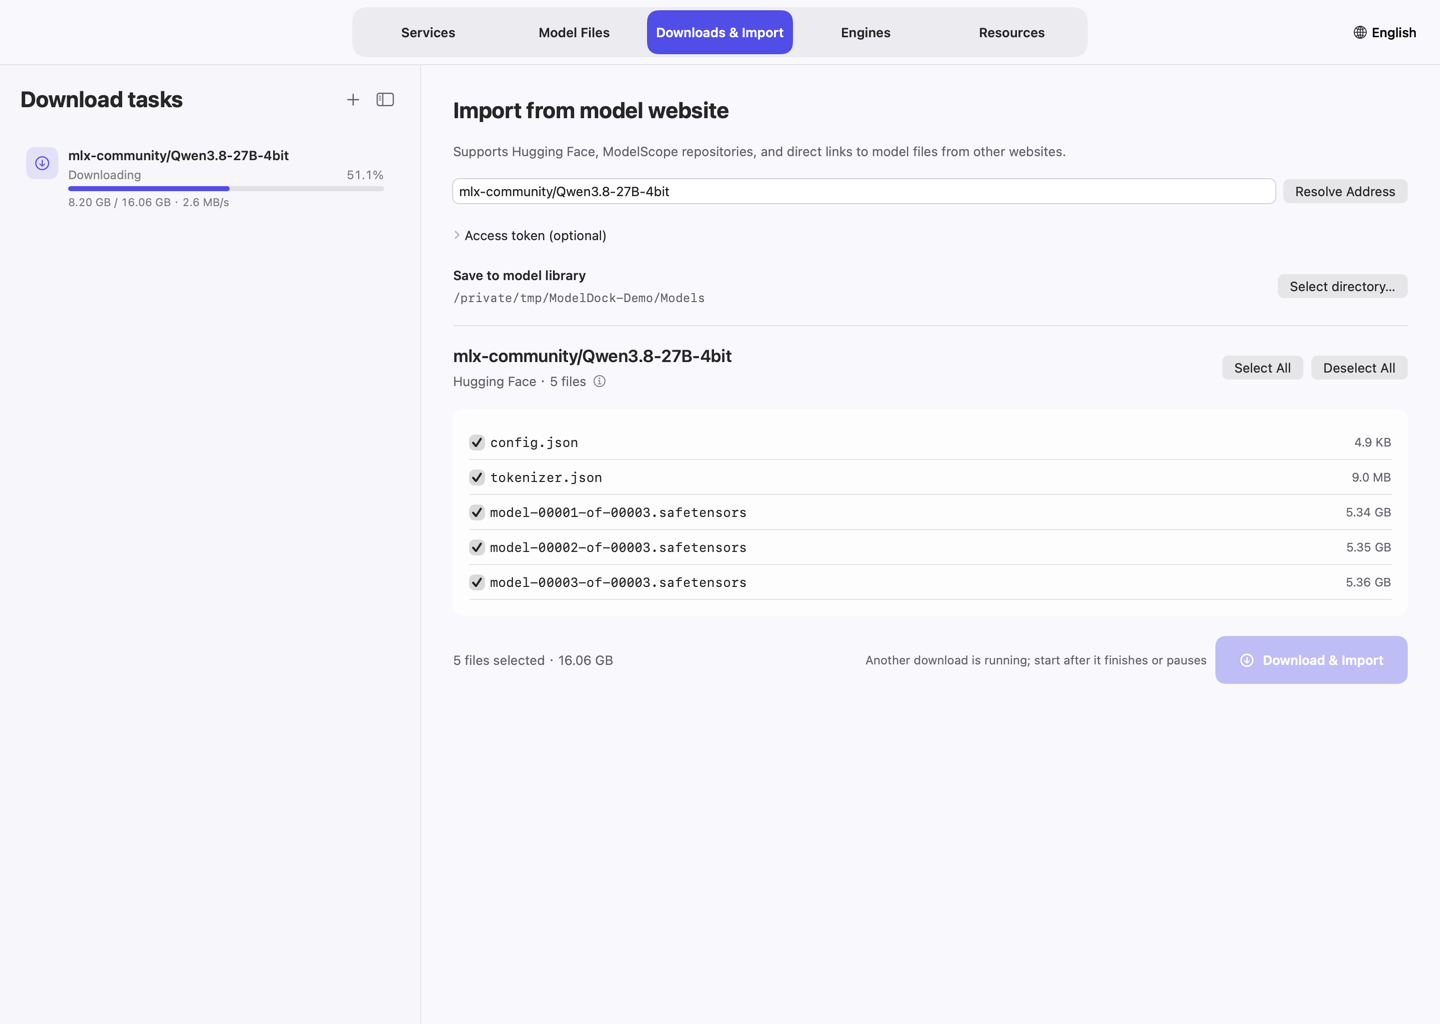
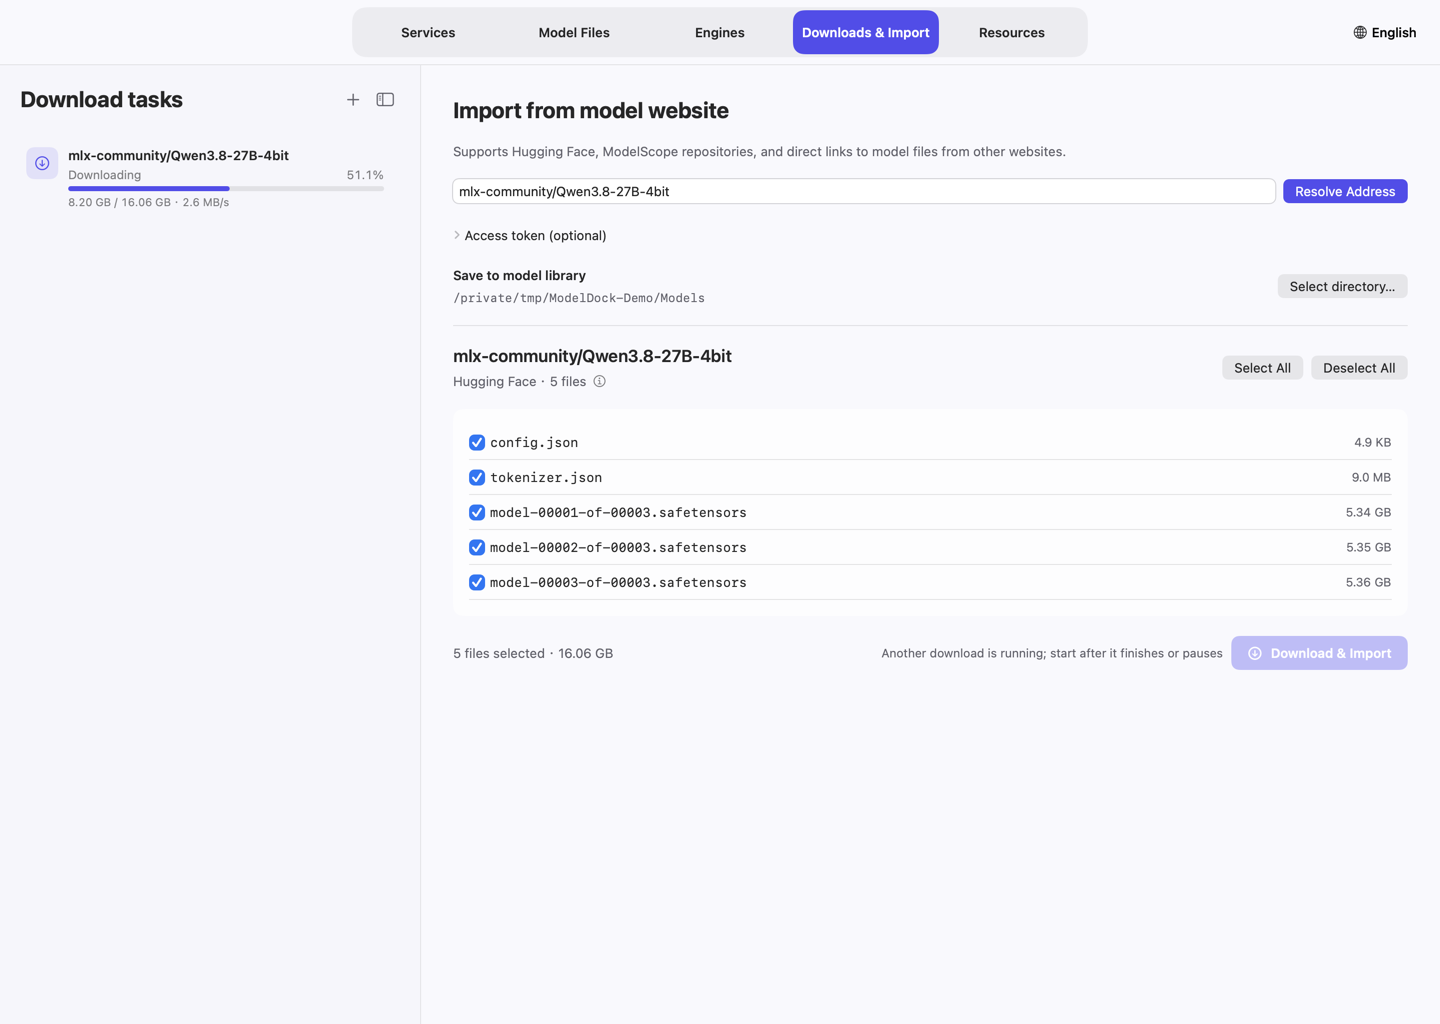
Release ModelDock 0.9.3
Bump to 0.9.3 (build 33), point the package workflow, package docs and
payload checks at 0.9.3, refresh English and Chinese screenshots at
1440x1024 for the new tab order and service parameters, and document
editable service parameters and engine updates that restart services.

diff --git a/website/guide.html b/website/guide.html
@@ -50,7 +50,7 @@
 <p><img alt="Engine and multimodal launch configuration" src="assets/en-engines.png" /></p>
 <ul>
 <li>Use <strong>Check for updates</strong> to inspect versions. Desktop applications and command-line components are listed separately; their version numbers are independent. <strong>Up to date</strong> means no update is needed from the selected source. <strong>Update available</strong> identifies an older component.</li>
-<li>Stop that engine's running services before updating it. A service belonging to another engine should not block the operation.</li>
+<li>Updating an engine stops the services ModelDock started with it, installs the update, then restarts them with their saved settings. If the update fails they restart on the installed version. Services of other engines are not touched; a process started outside ModelDock or an open desktop app must still be closed first.</li>
 <li>Homebrew-backed installation requires Homebrew. MLX components are managed in their own environment. A local build can be managed according to its identified build output.</li>
 <li>Review an uninstall or cleanup plan before applying it. Model files and personal data are retained by default; shared models and files in use are protected.</li>
 </ul>
@@ -111,7 +111,8 @@ https://huggingface.co/mlx-community/Qwen3.8-27B-4bit
 <p>For the Qwen3.8-27B family, <code>incoai/Qwen3.8-27B-DFlash2</code> is an auxiliary draft package. It is not a standalone chat model. Its <code>config.json</code> and <code>model.safetensors</code> are required; it can share the main model's tokenizer. Splash's compatible current model preparation uses a matched draft. MLX-VLM draft support depends on its runtime and architecture support; MLX-LM cannot use this DFlash2 format as a generic draft.</p>
 <p>A vision-capable model can be run text-only when the selected runtime supports that mode. MLX multimodal services use <strong>MLX-VLM</strong>, not just MLX-LM. Older Splash packed models remain text-only and need their matching retained runtime.</p>
 <h2 id="7-manage-services-and-model-versions">7. Manage services and model versions</h2>
-<p>Every independent instance appears in <strong>Services</strong>, with its model, port, and status. Click anywhere on its card to select it. Stop a specific instance without stopping another one. Once stopped, its configuration can be deleted; model files and logs are retained.</p>
+<p>Every independent instance appears in <strong>Services</strong>, with its model, port, and status. Click anywhere on its card to select it. Stop a specific instance without stopping another one. Once stopped, its configuration can be deleted; model files and logs are retained. The copy icon after the endpoint copies the address.</p>
+<p><strong>Service parameters</strong> on the instance page lists the port, context window, input mode and engine-specific options, and can be edited in place. <strong>Extra launch arguments</strong> append native engine flags (for example <code>-ngl 99 --threads 8</code> for llama.cpp); flags managed by the fields above are rejected. On a running service, <strong>Save and Restart</strong> stops it and starts it with the new values; if that start fails, the previous settings are restored and restarted. Services created from a launch command are edited through their command instead.</p>
 <p>A model update is downloaded as another revision when the source supports revision snapshots. The existing service keeps its launched path/version. After the new files are complete, select the new version and configure another launch or restart the intended service. Keep an older version to switch back later, or move it to the Trash when it is unused.</p>
 <p>Files used by running main/auxiliary models and shared cache references are protected. Ollama manages registered models differently: deletion uses Ollama's native operation and requires the model to be unloaded. It is not a Trash operation.</p>
 <h2 id="8-connect-directly-or-through-the-gateway">8. Connect directly or through the gateway</h2>

diff --git a/website/guide.zh-CN.html b/website/guide.zh-CN.html
@@ -50,7 +50,7 @@
 <p><img alt="运行引擎及多模态启动配置" src="assets/zh-Hans-engines.png" /></p>
 <ul>
 <li>点击“检查更新”核对版本。桌面应用与命令行组件分别展示，版本号不应相互比较。“已是最新”表示当前更新源没有更高版本；“有新版本”表示对应组件可更新。</li>
-<li>更新基座前，需要停止它自己的运行服务；其他基座的服务不应阻止本次操作。</li>
+<li>更新基座时，会先停止由 ModelDock 启动的该基座服务，更新完成后按原设置自动重新启动；更新失败则按当前已安装版本重新启动。其他基座的服务不受影响；外部启动的进程或已打开的桌面应用仍需先自行关闭。</li>
 <li>Homebrew 发行版本需要本机 Homebrew。MLX 使用独立环境管理组件，本地编译工具根据识别出的构建产物管理。</li>
 <li>卸载和清理残留前先核对范围。模型和个人数据默认保留；共享模型与使用中的文件受到保护。</li>
 </ul>
@@ -111,7 +111,8 @@ https://huggingface.co/mlx-community/Qwen3.8-27B-4bit
 <p>Qwen3.8-27B 系列的 <code>incoai/Qwen3.8-27B-DFlash2</code> 是辅助草稿包，不能当作独立聊天模型运行。它需要 <code>config.json</code> 和 <code>model.safetensors</code>，可以共用主模型 tokenizer。匹配的新版 Splash 组合使用适配草稿；MLX-VLM 的草稿支持依赖具体运行时与架构，MLX-LM 不能把该格式当成通用草稿加载。</p>
 <p>视觉模型可以在引擎支持时按纯文本启动。MLX 多模态需要 <strong>MLX-VLM</strong>，只有 MLX-LM 不够。旧 Splash packed 模型仍是纯文本，使用匹配的保留运行组件。</p>
 <h2 id="7">7. 服务实例与模型版本</h2>
-<p>“模型服务”列出每个独立实例的模型、端口和状态。整块卡片可选中，可以停止其中一个实例而保留另一个。停止后可删除该服务配置，模型文件和日志保留。</p>
+<p>“模型服务”列出每个独立实例的模型、端口和状态。整块卡片可选中，可以停止其中一个实例而保留另一个。停止后可删除该服务配置，模型文件和日志保留。接口地址后的复制图标可直接复制地址。</p>
+<p>实例页的“服务参数”列出端口、上下文、输入模式和该引擎的专属选项，可直接修改。“附加启动参数”用于追加引擎原生参数（如 llama.cpp 的 <code>-ngl 99 --threads 8</code>），已由上方字段管理的参数会被拒绝。运行中的服务点击“保存并重启”，会停止后用新参数启动；新参数启动失败时自动按原参数恢复。由启动命令创建的服务请通过编辑命令修改。</p>
 <p>支持版本快照的来源会把模型更新下载为另一个版本，已有服务继续使用启动时的路径和版本。新文件完整后，选择新版本，配置另一个实例或重启目标服务。旧版本可以保留供后续切回，也可在不使用时移至废纸篓。</p>
 <p>运行中的主模型、辅助模型以及共享缓存受到保护。Ollama 登记模型使用原生删除操作，须先卸载常驻模型；它的删除不会经过废纸篓。</p>
 <h2 id="8">8. 直连服务或使用统一网关</h2>

diff --git a/Tests/package_payload_checks.py b/Tests/package_payload_checks.py
@@ -18,10 +18,10 @@ class PackagePayloadChecks(unittest.TestCase):
         self.payload = Path(self.temporary.name)
         entries = []
         for suffix in ['dmg', 'zip']:
-            name = f'ModelDock-0.9.2-AppleSilicon.{suffix}'
+            name = f'ModelDock-0.9.3-AppleSilicon.{suffix}'
             (self.payload / name).write_bytes(b'complete verified release fixture')
             entries.append({'name': name, 'bytes': (self.payload / name).stat().st_size, 'sha256': publisher.digest(self.payload / name)})
-        self.manifest = {'version': '0.9.2', 'appBundle': 'ModelDock.app', 'architecture': 'arm64', 'artifacts': entries}
+        self.manifest = {'version': '0.9.3', 'appBundle': 'ModelDock.app', 'architecture': 'arm64', 'artifacts': entries}
         self.save()
         (self.payload / 'SHA256SUMS.txt').write_text(''.join(row['sha256'] + '  ' + row['name'] + '\n' for row in entries))
 
@@ -32,30 +32,30 @@ class PackagePayloadChecks(unittest.TestCase):
         (self.payload / 'release.json').write_text(json.dumps(self.manifest))
 
     def test_valid_payload(self):
-        self.assertEqual(publisher.validate_payload(self.payload, '0.9.2')['version'], '0.9.2')
+        self.assertEqual(publisher.validate_payload(self.payload, '0.9.3')['version'], '0.9.3')
 
     def test_same_size_tampering(self):
         (self.payload / self.manifest['artifacts'][0]['name']).write_bytes(b'X' * self.manifest['artifacts'][0]['bytes'])
-        with self.assertRaises(ValueError): publisher.validate_payload(self.payload, '0.9.2')
+        with self.assertRaises(ValueError): publisher.validate_payload(self.payload, '0.9.3')
 
     def test_cross_version(self):
         with self.assertRaises(ValueError): publisher.validate_payload(self.payload, '0.8.3')
 
     def test_traversal(self):
         self.manifest['artifacts'][0]['name'] = '../outside.dmg'; self.save()
-        with self.assertRaises(ValueError): publisher.validate_payload(self.payload, '0.9.2')
+        with self.assertRaises(ValueError): publisher.validate_payload(self.payload, '0.9.3')
 
     def test_duplicate_artifact(self):
         self.manifest['artifacts'].append(self.manifest['artifacts'][0]); self.save()
-        with self.assertRaises(ValueError): publisher.validate_payload(self.payload, '0.9.2')
+        with self.assertRaises(ValueError): publisher.validate_payload(self.payload, '0.9.3')
 
     def test_conflicting_checksum(self):
         p = self.payload / 'SHA256SUMS.txt'; p.write_text(p.read_text().replace(self.manifest['artifacts'][0]['sha256'], '0' * 64))
-        with self.assertRaises(ValueError): publisher.validate_payload(self.payload, '0.9.2')
+        with self.assertRaises(ValueError): publisher.validate_payload(self.payload, '0.9.3')
 
     def test_symlink(self):
         p = self.payload / self.manifest['artifacts'][0]['name']; other = self.payload / 'outside'; shutil.move(p, other); p.symlink_to(other)
-        with self.assertRaises(ValueError): publisher.validate_payload(self.payload, '0.9.2')
+        with self.assertRaises(ValueError): publisher.validate_payload(self.payload, '0.9.3')
 
 
 if __name__ == '__main__':

diff --git a/docs/USER_GUIDE.md b/docs/USER_GUIDE.md
@@ -37,7 +37,7 @@ Open **Engines** and select an installed engine. An engine card can be selected 
 ![Engine and multimodal launch configuration](assets/images/en-engines.png)
 
 - Use **Check for updates** to inspect versions. Desktop applications and command-line components are listed separately; their version numbers are independent. **Up to date** means no update is needed from the selected source. **Update available** identifies an older component.
-- Stop that engine's running services before updating it. A service belonging to another engine should not block the operation.
+- Updating an engine stops the services ModelDock started with it, installs the update, then restarts them with their saved settings. If the update fails they restart on the installed version. Services of other engines are not touched; a process started outside ModelDock or an open desktop app must still be closed first.
 - Homebrew-backed installation requires Homebrew. MLX components are managed in their own environment. A local build can be managed according to its identified build output.
 - Review an uninstall or cleanup plan before applying it. Model files and personal data are retained by default; shared models and files in use are protected.
 
@@ -132,7 +132,9 @@ A vision-capable model can be run text-only when the selected runtime supports t
 
 ## 7. Manage services and model versions
 
-Every independent instance appears in **Services**, with its model, port, and status. Click anywhere on its card to select it. Stop a specific instance without stopping another one. Once stopped, its configuration can be deleted; model files and logs are retained.
+Every independent instance appears in **Services**, with its model, port, and status. Click anywhere on its card to select it. Stop a specific instance without stopping another one. Once stopped, its configuration can be deleted; model files and logs are retained. The copy icon after the endpoint copies the address.
+
+**Service parameters** on the instance page lists the port, context window, input mode and engine-specific options, and can be edited in place. **Extra launch arguments** append native engine flags (for example `-ngl 99 --threads 8` for llama.cpp); flags managed by the fields above are rejected. On a running service, **Save and Restart** stops it and starts it with the new values; if that start fails, the previous settings are restored and restarted. Services created from a launch command are edited through their command instead.
 
 A model update is downloaded as another revision when the source supports revision snapshots. The existing service keeps its launched path/version. After the new files are complete, select the new version and configure another launch or restart the intended service. Keep an older version to switch back later, or move it to the Trash when it is unused.
 

diff --git a/docs/PACKAGES.md b/docs/PACKAGES.md
@@ -9,17 +9,17 @@ For ordinary installation, download from [Releases](https://github.com/etongle/M
 Install [ORAS](https://oras.land/docs/installation/), then:
 
 ```sh
-oras pull ghcr.io/etongle/modeldock:0.9.2 --output modeldock-0.9.2
-cd modeldock-0.9.2
+oras pull ghcr.io/etongle/modeldock:0.9.3 --output modeldock-0.9.3
+cd modeldock-0.9.3
 shasum -a 256 -c SHA256SUMS.txt
-open ModelDock-0.9.2-AppleSilicon.dmg
+open ModelDock-0.9.3-AppleSilicon.dmg
 ```
 
 `latest` follows the latest stable GitHub Release. A private package needs an ORAS registry login; after it is public, anonymous downloads work.
 
 ## Publication
 
-The **Publish release to GitHub Packages** workflow runs when a Release is published. It can also be started manually with an existing release tag such as `v0.9.2`.
+The **Publish release to GitHub Packages** workflow runs when a Release is published. It can also be started manually with an existing release tag such as `v0.9.3`.
 
 It uses the repository's temporary `GITHUB_TOKEN` with `contents: read` and `packages: write`. No personal token or additional secret is needed. ORAS is pinned to an official release and verified archive checksum.
 
@@ -35,6 +35,6 @@ The package retains **PolyForm Noncommercial 1.0.0** and the required notices. E
 
 GitHub Packages 存放与 Release 相同的 Mac 安装文件，采用 OCI 文件包，可通过 ORAS 下载、验证校验值，再打开 DMG 安装。普通用户直接从 Release 下载安装即可。
 
-发布新 Release 时自动同步，也可手动选择 `v0.9.2` 等已有版本。流程使用临时工作流令牌，不需要个人密钥；发布前校验两个安装文件，发布后重新下载并比较七个文件的 SHA-256。
+发布新 Release 时自动同步，也可手动选择 `v0.9.3` 等已有版本。流程使用临时工作流令牌，不需要个人密钥；发布前校验两个安装文件，发布后重新下载并比较七个文件的 SHA-256。
 
 首次创建的包默认私有，需要在包页面的 **Package settings → Change visibility → Public** 中切换一次，才能让所有人匿名下载。后续版本沿用该设置。模型文件、个人配置和密钥均不加入包；非商业许可继续适用。
